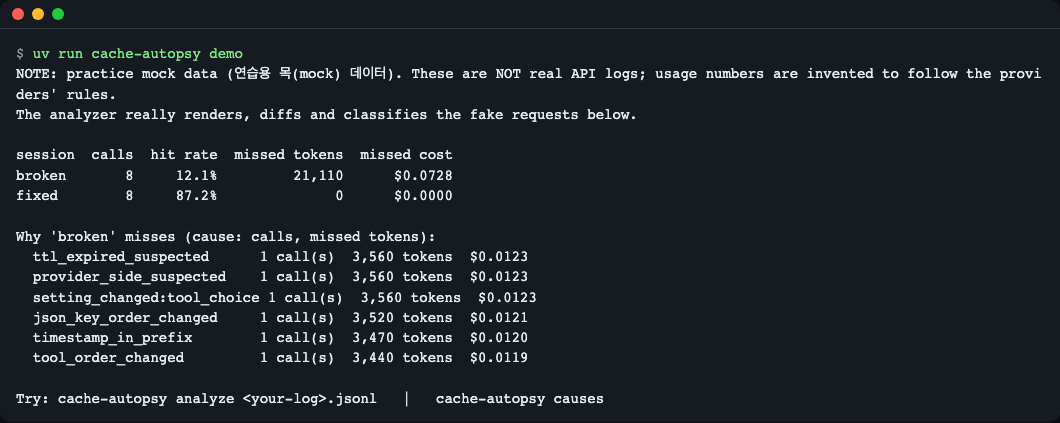
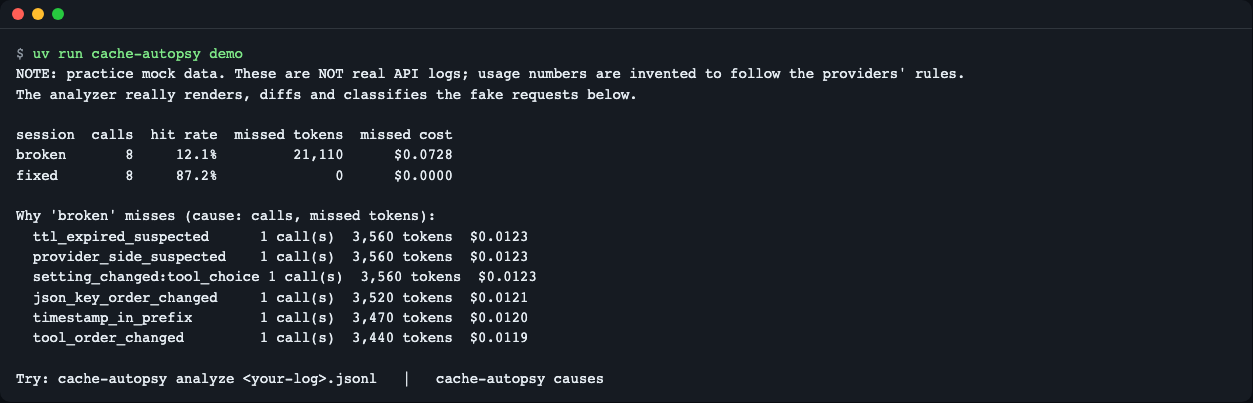
docs(readme): document output language and add Korean screenshots
Explain language selection, the argparse English limit and which
commands take --format. Add per-language screenshots and 0.2.0 notes.

diff --git a/README.md b/README.md
@@ -32,7 +32,7 @@ uv sync
 uv run cache-autopsy --version
 ```
 ```text
-cache-autopsy 0.1.1
+cache-autopsy 0.2.0
 ```
 On a minimal Linux container you need `git`, `curl` and `ca-certificates`. It has not been published to PyPI yet.
 
@@ -41,7 +41,7 @@ On a minimal Linux container you need `git`, `curl` and `ca-certificates`. It ha
 uv run cache-autopsy demo
 ```
 ```text
-NOTE: practice mock data (연습용 목(mock) 데이터). These are NOT real API logs; usage numbers are invented to follow the providers' rules.
+NOTE: practice mock data. These are NOT real API logs; usage numbers are invented to follow the providers' rules.
 The analyzer really renders, diffs and classifies the fake requests below.
 
 session  calls  hit rate  missed tokens  missed cost
@@ -58,6 +58,8 @@ Why 'broken' misses (cause: calls, missed tokens):
 
 Try: cache-autopsy analyze <your-log>.jsonl   |   cache-autopsy causes
 ```
+The output language follows `--lang` / `CACHE_AUTOPSY_LANG` / your locale (`LANG`). If your shell locale is Korean, the same command prints Korean; add `--lang en` to match the block above (see [Configuration](#configuration)).
+
 - **hit rate**: the share of input tokens that were read from the cache.
 - **missed tokens / cost**: the tokens that would have been read cheaply from the cache had it hit, and the price difference (based on example prices).
 - The lines below are totals "by cause of the break". The numbers are practice mock data, so they are not values from a real service.
@@ -87,7 +89,7 @@ Anthropic's `input_tokens` counts only the tokens **after** the last cache break
 | `lint REQUEST.json` | Patterns in a single request that are likely to break the cache | 1 if there are warnings |
 | `causes` | A list of cause codes and how to fix them (`--format md` is available) | 0 |
 
-Main options: `--format text|json|md`, `--fail-under 0.6` (lower bound on hit rate; a **ratio from 0 to 1**, and writing it like 60 exits with 2), `--fail-on CODE,...` (fail if that verdict or cause is present; unknown values exit with 2), `--session-key request.metadata.user_id` (the basis for grouping a conversation), `--pricing FILE` (override prices), `--redact` (do not print request text), `--provider` (specify instead of auto-detecting), `--min-tokens` (minimum tokens for caching, default 1024).
+Main options: `--format text|json|md` (`analyze` and `diff` accept all three; `causes` accepts `md`; `lint` prints text only and does not take `--format`), `--fail-under 0.6` (lower bound on hit rate; a **ratio from 0 to 1**, and writing it like 60 exits with 2), `--fail-on CODE,...` (fail if that verdict or cause is present; unknown values exit with 2), `--session-key request.metadata.user_id` (the basis for grouping a conversation), `--pricing FILE` (override prices), `--redact` (do not print request text), `--provider` (specify instead of auto-detecting), `--min-tokens` (minimum tokens for caching, default 1024).
 
 ### Input format
 One JSON object per line (a UTF-8 BOM at the start of the file is allowed). Provide `request` (required), `response` (usually), `session_id`, and `ts` (ISO-8601 or epoch seconds). Supported: Anthropic Messages, OpenAI Chat Completions, OpenAI Responses.
@@ -291,7 +293,8 @@ error: --fail-under must be a ratio between 0 and 1 (got 60.0). Write 0.6 for 60
 ```
 
 ## Configuration
-- There are no environment variables, keys or network (no `.env` needed).
+- There are no keys or network (no `.env` needed).
+- **Language**: human-readable output (help, tables, Markdown reports, errors, lint findings) comes in English or Korean. Pick it with `--lang en|ko` (before or after the subcommand) or the `CACHE_AUTOPSY_LANG` environment variable; otherwise `LC_ALL`, `LC_MESSAGES` and `LANG` are read in that order, and a value starting with `ko` means Korean. Anything else is English, including an unrecognized `CACHE_AUTOPSY_LANG` value (it does not fall through to the locale variables). Known limit: argparse's own built-in text (`usage:`, `positional arguments:`, `options:`, `-h, --help` and its usage errors such as `the following arguments are required`) stays English; only the tool's own help texts and messages are translated. For example `cache-autopsy --lang ko analyze log.jsonl` or `CACHE_AUTOPSY_LANG=ko cache-autopsy demo`. `--format json` output, cause codes, verdict values, `WARNING`/`ERROR`/`INFO` and exit codes are the same in both languages, so scripts and CI greps keep working.
 - **Prices**: `src/cache_autopsy/pricing.json` holds example prices per model (USD / 1M tokens). The file metadata (`_meta`) states `unverified_example_prices: true` (unverified example prices), `carried_over: 2026-11-09` (the values were carried over on that date) and the sources ([Anthropic](https://platform.claude.com/docs/en/about-claude/pricing), [OpenAI](https://developers.openai.com/api/docs/pricing)), but **these values could not be re-checked against the official price pages during development.** So treat them as "example prices", and to match real bills override them with `--pricing my-prices.json` (same shape). For unknown models it does not compute a cost and reports them as `unpriced_models`.
 - If a response has no `usage`, tokens are estimated as character count / 4, and the result marks that it is an estimate.
 - Byte positions and JSON paths are the result of re-rendering locally following the section order described in the docs, and there is no guarantee they match the provider's internal serialization.
@@ -358,7 +361,7 @@ uv run pytest -q
 uv run python -I -m unittest discover -s tests
 ```
 ```text
-41 passed in 0.29s
+81 passed in 2.45s
 ```
 Please leave bugs and suggestions as issues. The change log is [CHANGELOG.md](CHANGELOG.md).
 

diff --git a/CHANGELOG.md b/CHANGELOG.md
@@ -2,6 +2,18 @@
 
 All notable changes to this project are documented here. Format: [Keep a Changelog](https://keepachangelog.com/en/1.1.0/).
 
+## [0.2.0] - 2026-11-12
+
+### Added
+- English and Korean output. `--lang en|ko` (before or after the subcommand) or the `CACHE_AUTOPSY_LANG` environment variable chooses the language; otherwise `LC_ALL`, `LC_MESSAGES` and `LANG` are read in that order, a value starting with `ko` means Korean, and anything else is English.
+- Translated help texts, text and Markdown reports, lint findings, the `causes` table, the `demo` screen, and error messages (including the details after `error:` / `오류:`; common OS and JSON parser details such as "Is a directory" are translated too).
+- `CacheAutopsyError.coded()` and `.localized()`; exceptions keep an English `str()` and carry a message `code` plus `params`.
+- `rules.display_fix()` (fix text in the current output language) and `causes_markdown(lang)`.
+
+### Changed
+- `demo` banner is English by default (the Korean gloss moved to the Korean output).
+- When `LANG` (or `LC_ALL` / `LC_MESSAGES`) starts with `ko`, human-readable output is now Korean. `--format json` output, cause codes, verdict values, `WARNING` / `ERROR` / `INFO`, the `FAIL:` prefix and exit codes are unchanged. `Finding.message`, `Finding.fix`, `Divergence.fix` and `str(exc)` stay English.
+
 ## [0.1.1] - 2026-11-10
 
 ### Fixed
